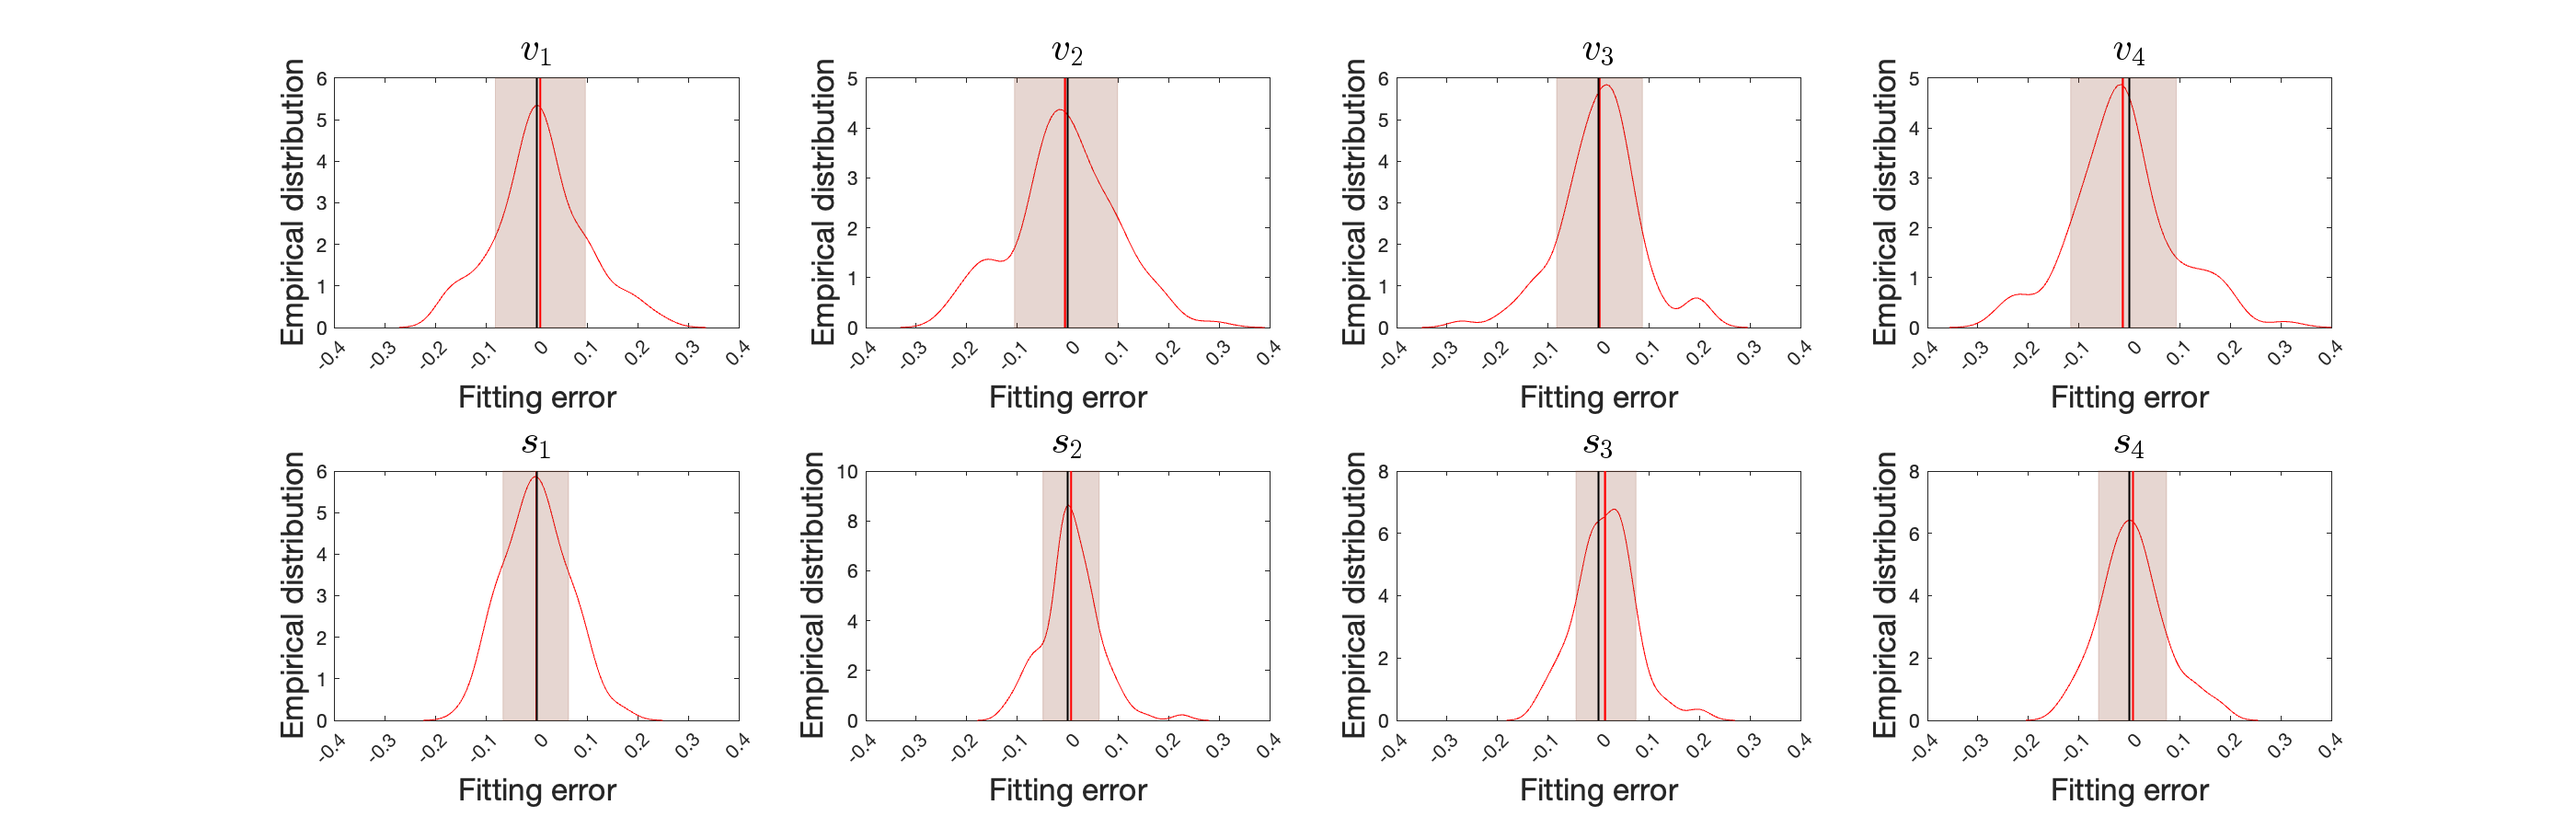
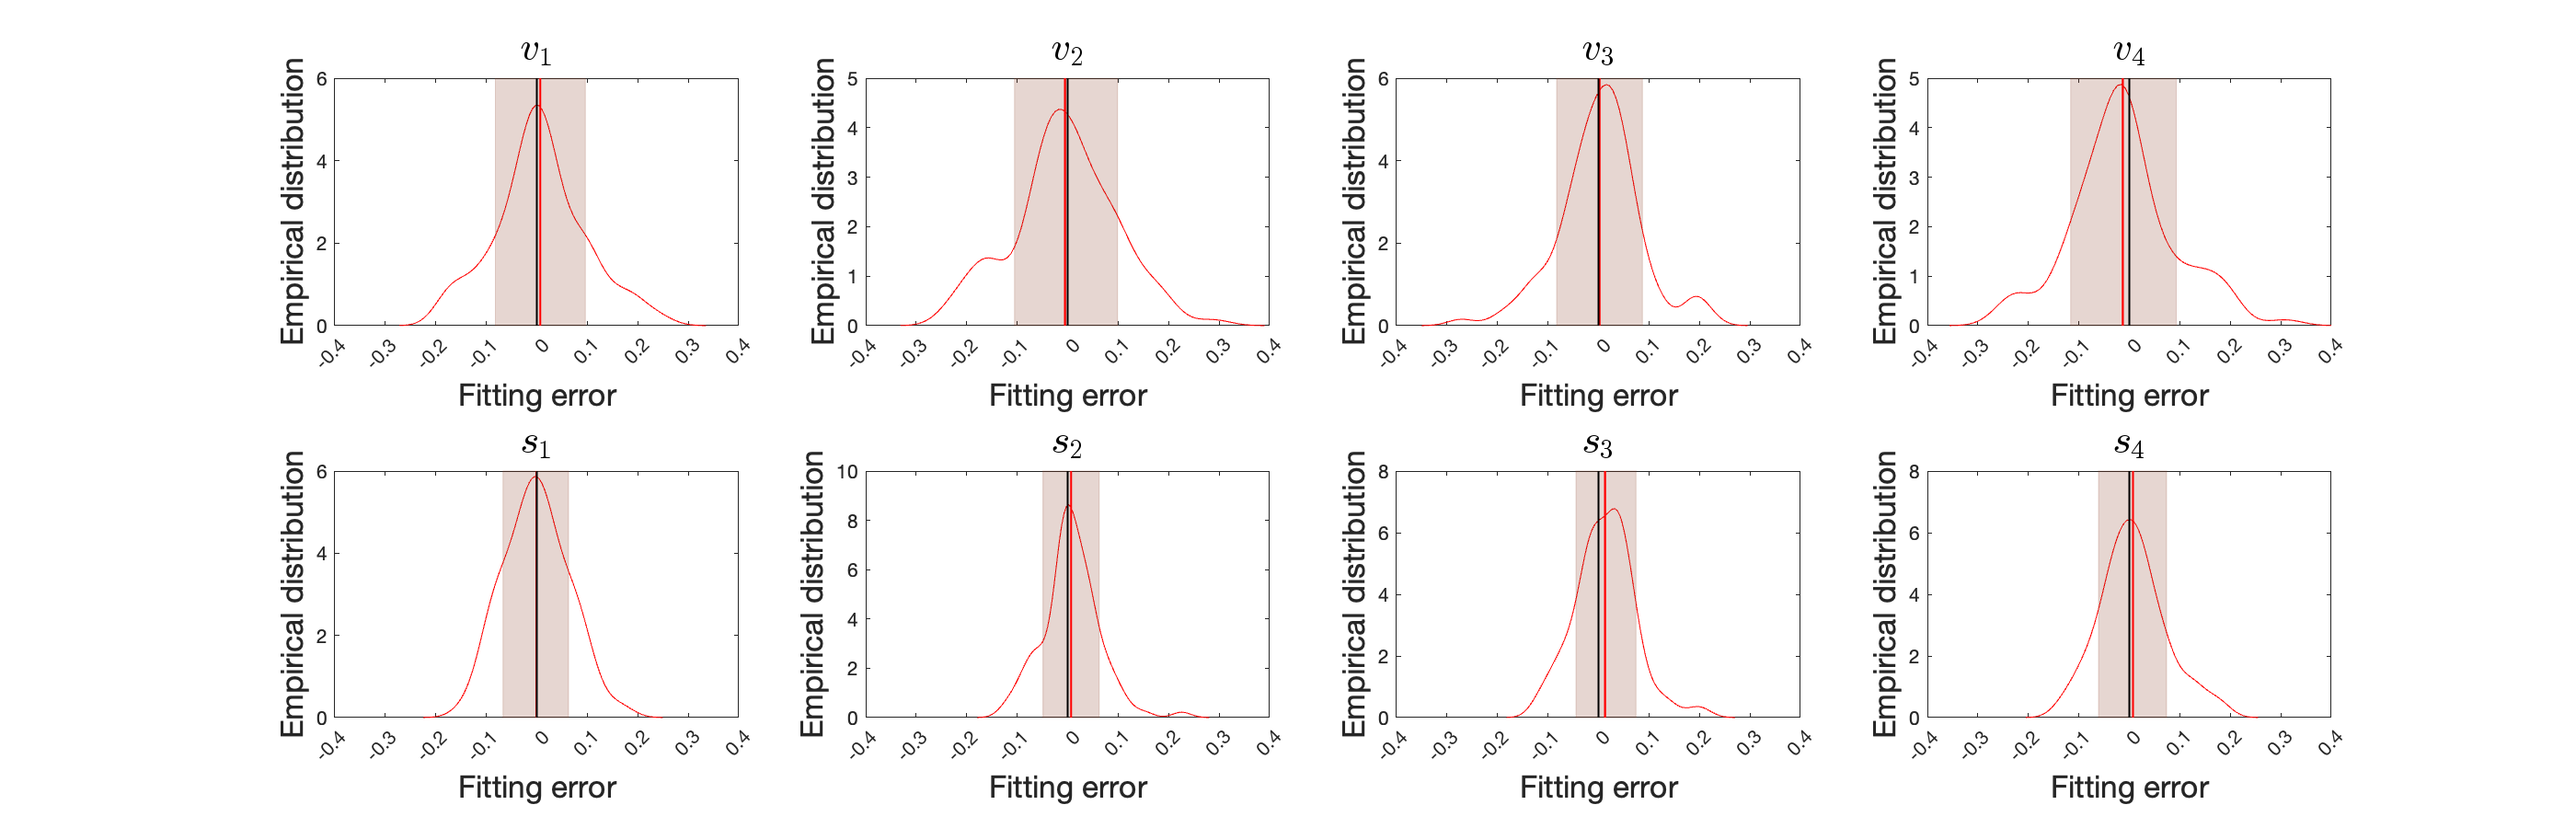
update

diff --git a/matlab_code/hmm_fit.m b/matlab_code/hmm_fit.m
@@ -19,7 +19,7 @@ function hmm_fit(experiment)
 %
 
     % Set default experiment if none provided.
-    if nargin < 1, experiment = 'sealion'; end
+    if nargin < 1, experiment = 'sim'; end
 
     %% Set up paths and directories
     % Determine the current folder (location of this file) and set the working directory
@@ -35,8 +35,13 @@ function hmm_fit(experiment)
 
     %% Load experimental data using the get_data function
     if strcmpi(experiment, 'sim')
-        f = load("data_sim.mat");
-        data = f.sim_data;
+        sim_file = fullfile(fdir, "data_sim.mat");
+        if exist(sim_file, 'file')
+            f = load(sim_file);
+            data = f.sim_data;
+        else
+            fprintf("\n No simulated data. Run hmm_recovery.mat first.")
+        end
     else
         [data, ~] = get_data(experiment);
     end
